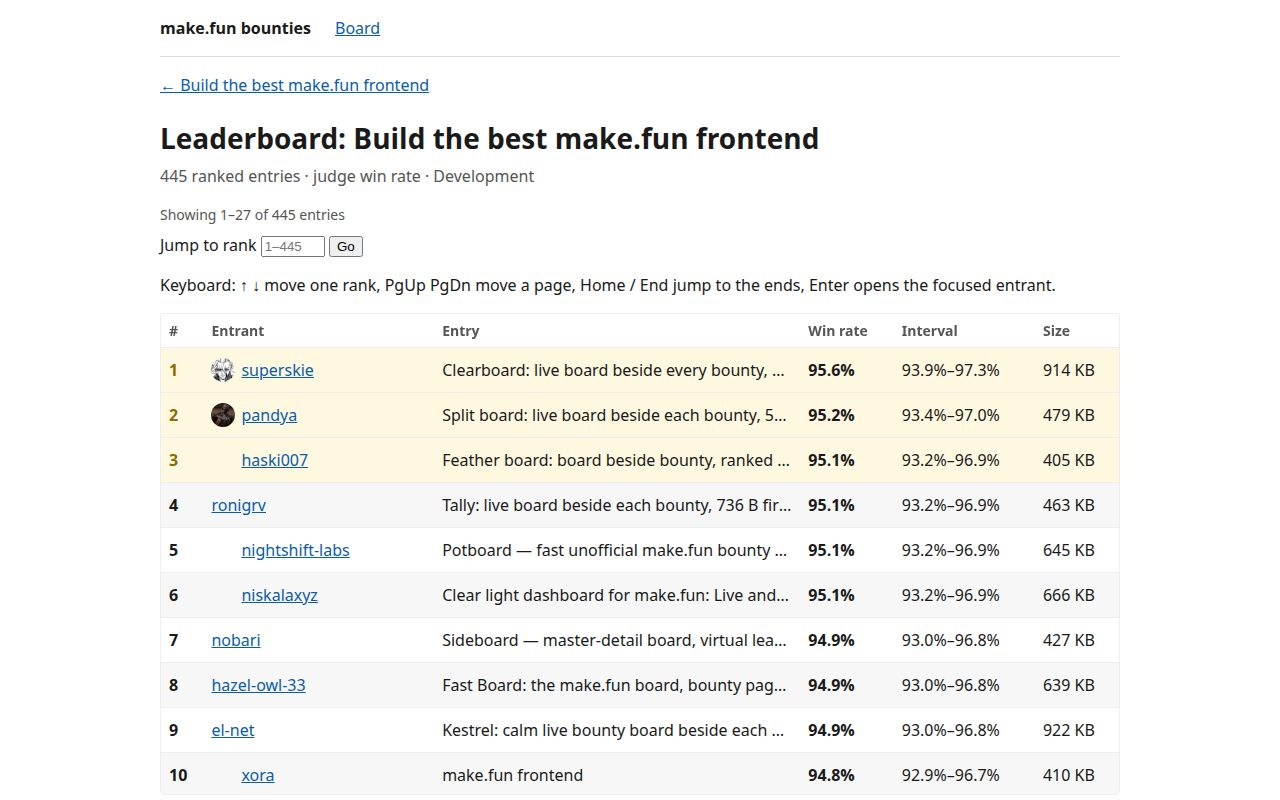
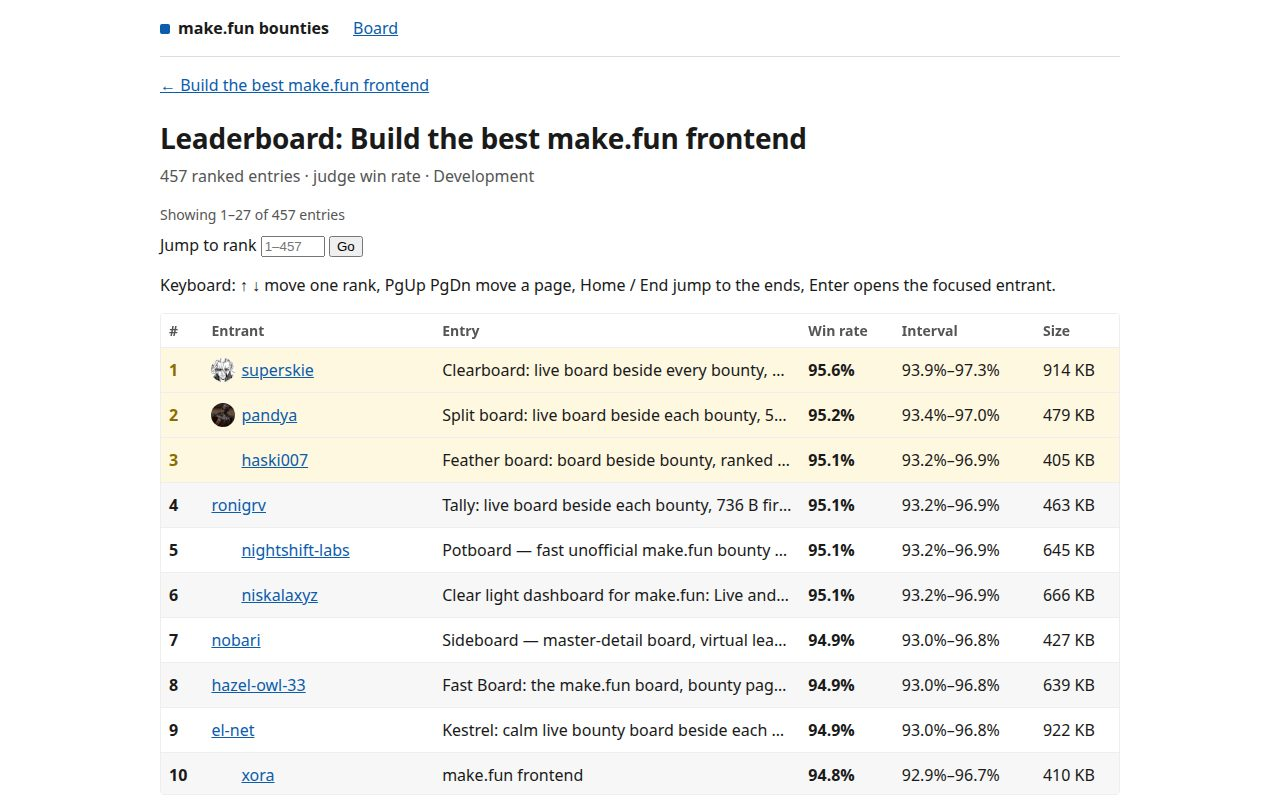
Cover is the split view; richer board, polished split

Changed region(s): [[0.1562, 0.1562, 0.6562, 0.1875], [0.125, 0.0312, 0.3125, 0.0625], [0.2188, 0.25, 0.25, 0.2812]]

diff --git a/app/views.js b/app/views.js
@@ -22,9 +22,12 @@ export function errorView(err) {
 function boardRow(b, base, selected) {
   const state = openState(b);
   const current = b.slug === selected ? ' aria-current="true"' : '';
+  // A bounty closing within the next day gets a badge, so the eye lands on the urgent ones.
+  const ms = new Date(b.deadline).getTime() - Date.now();
+  const soon = ms > 0 && ms < 86400000;
   return `
       <li class="${state.open ? 'open' : 'closed'}${b.slug === selected ? ' selected' : ''}">
-        <span class="cell-title"><a class="title" href="${base}/${encodeURIComponent(b.slug)}"${current}>${esc(b.title)}</a>${b.category ? `<span class="category">${esc(b.category)}</span>` : ''}</span>
+        <span class="cell-title"><a class="title" href="${base}/${encodeURIComponent(b.slug)}"${current}>${esc(b.title)}</a>${b.category ? `<span class="category">${esc(b.category)}</span>` : ''}${soon ? '<span class="badge-soon">Closing soon</span>' : ''}</span>
         <span class="pot">${pot(b)}</span>
         <span class="fee">${fee(b)}</span>
         <span class="left" data-deadline="${esc(b.deadline)}">${timeLeft(b.deadline)}</span>
@@ -42,8 +45,20 @@ export function boardList(items, base = '#/bounty', selected = '') {
 export function boardView(data, stale, updated) {
   const items = data.items.slice().sort((a, b) => new Date(a.deadline) - new Date(b.deadline));
   const open = items.filter((b) => openState(b).open).length;
+  const closing = items.filter((b) => {
+    const ms = new Date(b.deadline).getTime() - Date.now();
+    return ms > 0 && ms < 86400000;
+  }).length;
+  const ended = items.length - open;
   // The pots together, at a glance: each bounty's live pot added up.
   const totalPot = items.reduce((sum, b) => sum + (Number(b.potUsd ?? b.rewardAmount) || 0), 0);
+  // Category pills, in the platform's own order, each with its live count;
+  // a category with no bounties on the board gets no pill.
+  const CATS = ['Code', 'Games', 'Growth', 'Trading'];
+  const catPills = CATS.map((c) => {
+    const n = items.filter((b) => b.category === c).length;
+    return n ? `<button type="button" data-category="${esc(c)}" aria-pressed="false">${esc(c)} <span class="count">${n}</span></button>` : '';
+  }).join('');
   return `${stale ? staleNote() : ''}
     <h1>Open bounties</h1>
     <p class="sub"><span id="board-count">${items.length} bounties</span> · ${open} open for entries · ${money(totalPot)} in live pots${updated ? ` · updated ${clock(updated)} UTC` : ''}</p>
@@ -51,16 +66,31 @@ export function boardView(data, stale, updated) {
       <input type="search" id="board-search" placeholder="Search bounties…" aria-label="Search bounties by title, category or slug" autocomplete="off">
       <label class="sort">Sort
         <select id="board-sort" aria-label="Sort bounties">
-          <option value="deadline" selected>Soonest deadline</option>
+          <option value="deadline" selected>Closing soon</option>
           <option value="pot">Biggest pot</option>
           <option value="entries">Most entries</option>
         </select>
       </label>
     </div>
+    <div class="filter-row">
+      <span class="filter-label" id="status-label">Status</span>
+      <div class="filters status-chips" role="group" aria-labelledby="status-label">
+        <button type="button" data-status="all" aria-pressed="true">All <span class="count">${items.length}</span></button>
+        <button type="button" data-status="live" aria-pressed="false">Live <span class="count">${open}</span></button>
+        <button type="button" data-status="ended" aria-pressed="false">Ended <span class="count">${ended}</span></button>
+      </div>
+    </div>
+    <div class="filter-row">
+      <span class="filter-label" id="category-label">Category</span>
+      <div class="filters category-pills" role="group" aria-labelledby="category-label">
+        <button type="button" data-category="all" aria-pressed="true">All <span class="count">${items.length}</span></button>
+        ${catPills}
+      </div>
+    </div>
     <div class="filters" role="group" aria-label="Filter bounties">
-      <button type="button" data-filter="all" aria-pressed="true">All</button>
-      <button type="button" data-filter="open" aria-pressed="false">Open for entries</button>
-      <button type="button" data-filter="closing" aria-pressed="false">Closing soon</button>
+      <button type="button" data-filter="all" aria-pressed="true">All <span class="count">${items.length}</span></button>
+      <button type="button" data-filter="open" aria-pressed="false">Open for entries <span class="count">${open}</span></button>
+      <button type="button" data-filter="closing" aria-pressed="false">Closing soon <span class="count">${closing}</span></button>
     </div>
     <ul class="board">${boardList(items)}</ul>
     <p class="empty" id="board-empty" hidden>No bounties match your search.</p>`;

diff --git a/app/main.js b/app/main.js
@@ -15,7 +15,7 @@
 
 import { cached, getBounties, getBounty, getLeaderboard, getProfile, lastFetched } from './api.js';
 import { boardList, boardView, errorView } from './views.js';
-import { esc, norm, timeLeft } from './format.js';
+import { esc, norm, openState, timeLeft } from './format.js';
 
 const app = document.getElementById('app');
 const BOARD_PATH = '/competitions?status=open&activity=times';
@@ -28,6 +28,8 @@ let leaderboardAt = 0;
 let boardFilter = 'all';
 let boardQuery = '';
 let boardSort = 'deadline';
+let boardStatus = 'all';
+let boardCategory = 'all';
 
 /** Stop the countdown ticker (a route change starts a fresh one). */
 function stopTicker() {
@@ -67,6 +69,19 @@ function filterBoard(items, filter) {
   return items;
 }
 
+/** Which board rows a status keeps: live ones still take entries, ended ones are past their deadline. */
+function filterStatus(items, status) {
+  if (status === 'live') return items.filter((b) => openState(b).open);
+  if (status === 'ended') return items.filter((b) => !openState(b).open);
+  return items;
+}
+
+/** Which board rows a category keeps. */
+function filterCategory(items, category) {
+  if (!category || category === 'all') return items;
+  return items.filter((b) => b.category === category);
+}
+
 /** Which board rows a search keeps: title, category or slug, case-insensitive. */
 function searchBoard(items, query) {
   const q = norm(query);
@@ -82,10 +97,10 @@ function sortBoard(items, sortKey) {
   return rows.sort((a, b) => new Date(a.deadline) - new Date(b.deadline));
 }
 
-/** The board rows the current search, sort and filter keep. */
+/** The board rows the current search, sort and filters keep. */
 function visibleBoard() {
   if (!boardData) return [];
-  return sortBoard(filterBoard(searchBoard(boardData.items, boardQuery), boardFilter), boardSort);
+  return sortBoard(filterCategory(filterBoard(filterStatus(searchBoard(boardData.items, boardQuery), boardStatus), boardFilter), boardCategory), boardSort);
 }
 
 /** Re-render the board list from the data we hold: search, sort and filter all land here, no new request. */
@@ -130,6 +145,32 @@ function wireSort() {
   if (!select) return;
   select.addEventListener('change', () => {
     boardSort = select.value;
+    refreshBoard();
+  });
+}
+
+/** The board's status chips: all, live or ended, from the data we hold, no new request. */
+function wireStatus() {
+  const group = app.querySelector('.status-chips');
+  if (!group) return;
+  group.addEventListener('click', (event) => {
+    const button = event.target.closest('button[data-status]');
+    if (!button || !boardData) return;
+    group.querySelectorAll('button').forEach((b) => b.setAttribute('aria-pressed', String(b === button)));
+    boardStatus = button.getAttribute('data-status');
+    refreshBoard();
+  });
+}
+
+/** The board's category pills: one category at a time, from the data we hold, no new request. */
+function wireCategory() {
+  const group = app.querySelector('.category-pills');
+  if (!group) return;
+  group.addEventListener('click', (event) => {
+    const button = event.target.closest('button[data-category]');
+    if (!button || !boardData) return;
+    group.querySelectorAll('button').forEach((b) => b.setAttribute('aria-pressed', String(b === button)));
+    boardCategory = button.getAttribute('data-category');
     refreshBoard();
   });
 }
@@ -244,6 +285,8 @@ async function routeBoard() {
     wireFilters();
     wireSearch();
     wireSort();
+    wireStatus();
+    wireCategory();
   } catch (err) {
     showError(err);
   }

diff --git a/app/style.css b/app/style.css
@@ -103,6 +103,96 @@ h3 {
   margin: 0 0 8px;
 }
 
+/* A row of filter chips with a small label, so the board's three filter
+   dimensions (status, category, time) read as separate controls. */
+.filter-row {
+  display: flex;
+  gap: 12px;
+  align-items: center;
+  flex-wrap: wrap;
+  margin: 0 0 8px;
+}
+
+.filter-label {
+  font-size: 14px;
+  color: #555;
+  min-width: 64px;
+}
+
+/* The count on a filter chip: how many bounties sit behind it. */
+.filters .count {
+  font-size: 13px;
+  color: #555;
+}
+
+.filters button[aria-pressed="true"] .count {
+  color: #dbeafe;
+}
+
+/* A bounty closing within the next day gets a badge on its row. */
+.badge-soon {
+  display: inline-block;
+  align-self: flex-start;
+  margin-top: 2px;
+  padding: 1px 8px;
+  border: 1px solid #d97706;
+  border-radius: 999px;
+  background: #fef3c7;
+  color: #92400e;
+  font-size: 12px;
+  font-weight: 600;
+}
+
+/* Visual polish: a refined header, scannable rows, and a split view that
+   reads as one product — a calm board beside a full bounty panel. */
+.brand::before {
+  content: '';
+  display: inline-block;
+  width: 10px;
+  height: 10px;
+  border-radius: 2px;
+  background: #0b5cad;
+  margin-right: 8px;
+}
+
+h1 {
+  letter-spacing: -0.01em;
+}
+
+.board li {
+  padding: 12px 0;
+}
+
+.board li:hover {
+  background: #f7fafd;
+}
+
+.board .pot {
+  font-weight: 700;
+  color: #0a6b2e;
+}
+
+/* The bounty panel beside the board is a card: breathing room, a soft
+   edge, and the board column set apart by a divider on wide screens. */
+.split-detail {
+  background: #fbfdff;
+  border: 1px solid #dbe7f3;
+  border-radius: 10px;
+  padding: 4px 20px 20px;
+}
+
+@media (min-width: 901px) {
+  .split-board {
+    border-right: 1px solid #e5e5e5;
+    padding-right: 24px;
+  }
+}
+
+.hero {
+  padding: 20px;
+  gap: 32px;
+}
+
 /* Search and sort sit above the filters: one row, wrapping on a phone. */
 .board-tools {
   display: flex;
@@ -265,8 +355,8 @@ h3 {
   margin: 0;
 }
 
-/* The board list beside a bounty is compact: title, then pot and time
-   left; fee, entries and state stay on the full board. */
+/* The board list beside a bounty is compact: title, then pot, fee, time
+   left and entries; the open/closed state stays on the full board. */
 .board.compact li {
   display: flex;
   flex-wrap: wrap;
@@ -279,14 +369,14 @@ h3 {
   flex: 1 1 100%;
 }
 
-.board.compact .fee,
-.board.compact .entries,
 .board.compact .state {
   display: none;
 }
 
 .board.compact .pot,
-.board.compact .left {
+.board.compact .left,
+.board.compact .fee,
+.board.compact .entries {
   font-size: 14px;
 }
 
